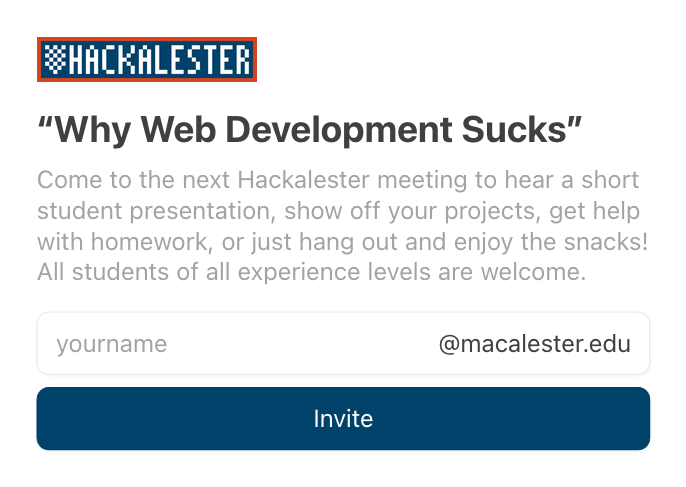
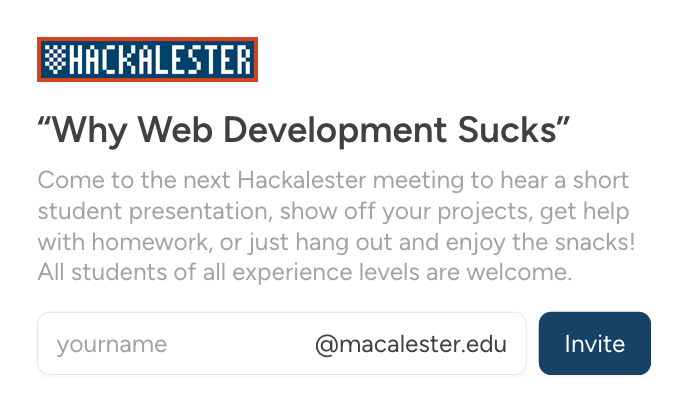
Font: Inter -> Figtree

diff --git a/resources/views/app.blade.php b/resources/views/app.blade.php
@@ -8,7 +8,7 @@
     <link rel="icon" href="{{ asset('images/favicon.svg') }}">
     
     <link rel="preconnect" href="https://fonts.bunny.net">
-    <link rel="stylesheet" href="https://fonts.bunny.net/css?family=inter:400,700">
+    <link rel="stylesheet" href="https://fonts.bunny.net/css?family=figtree:400,400i,600,600i&display=swap">
 
     @vite('resources/css/app.css')
     @vite('resources/js/app.js')

diff --git a/resources/views/components/layout.blade.php b/resources/views/components/layout.blade.php
@@ -7,7 +7,7 @@
 
     <link rel="icon" href="{{ asset('images/favicon.svg') }}">
 
-    <link rel="stylesheet" href="https://fonts.bunny.net/css?family=inter:400,700">
+    <link rel="stylesheet" href="https://fonts.bunny.net/css?family=figtree:400,400i,600,600i&display=swap">
 
     @vite('resources/css/app.css')
 
